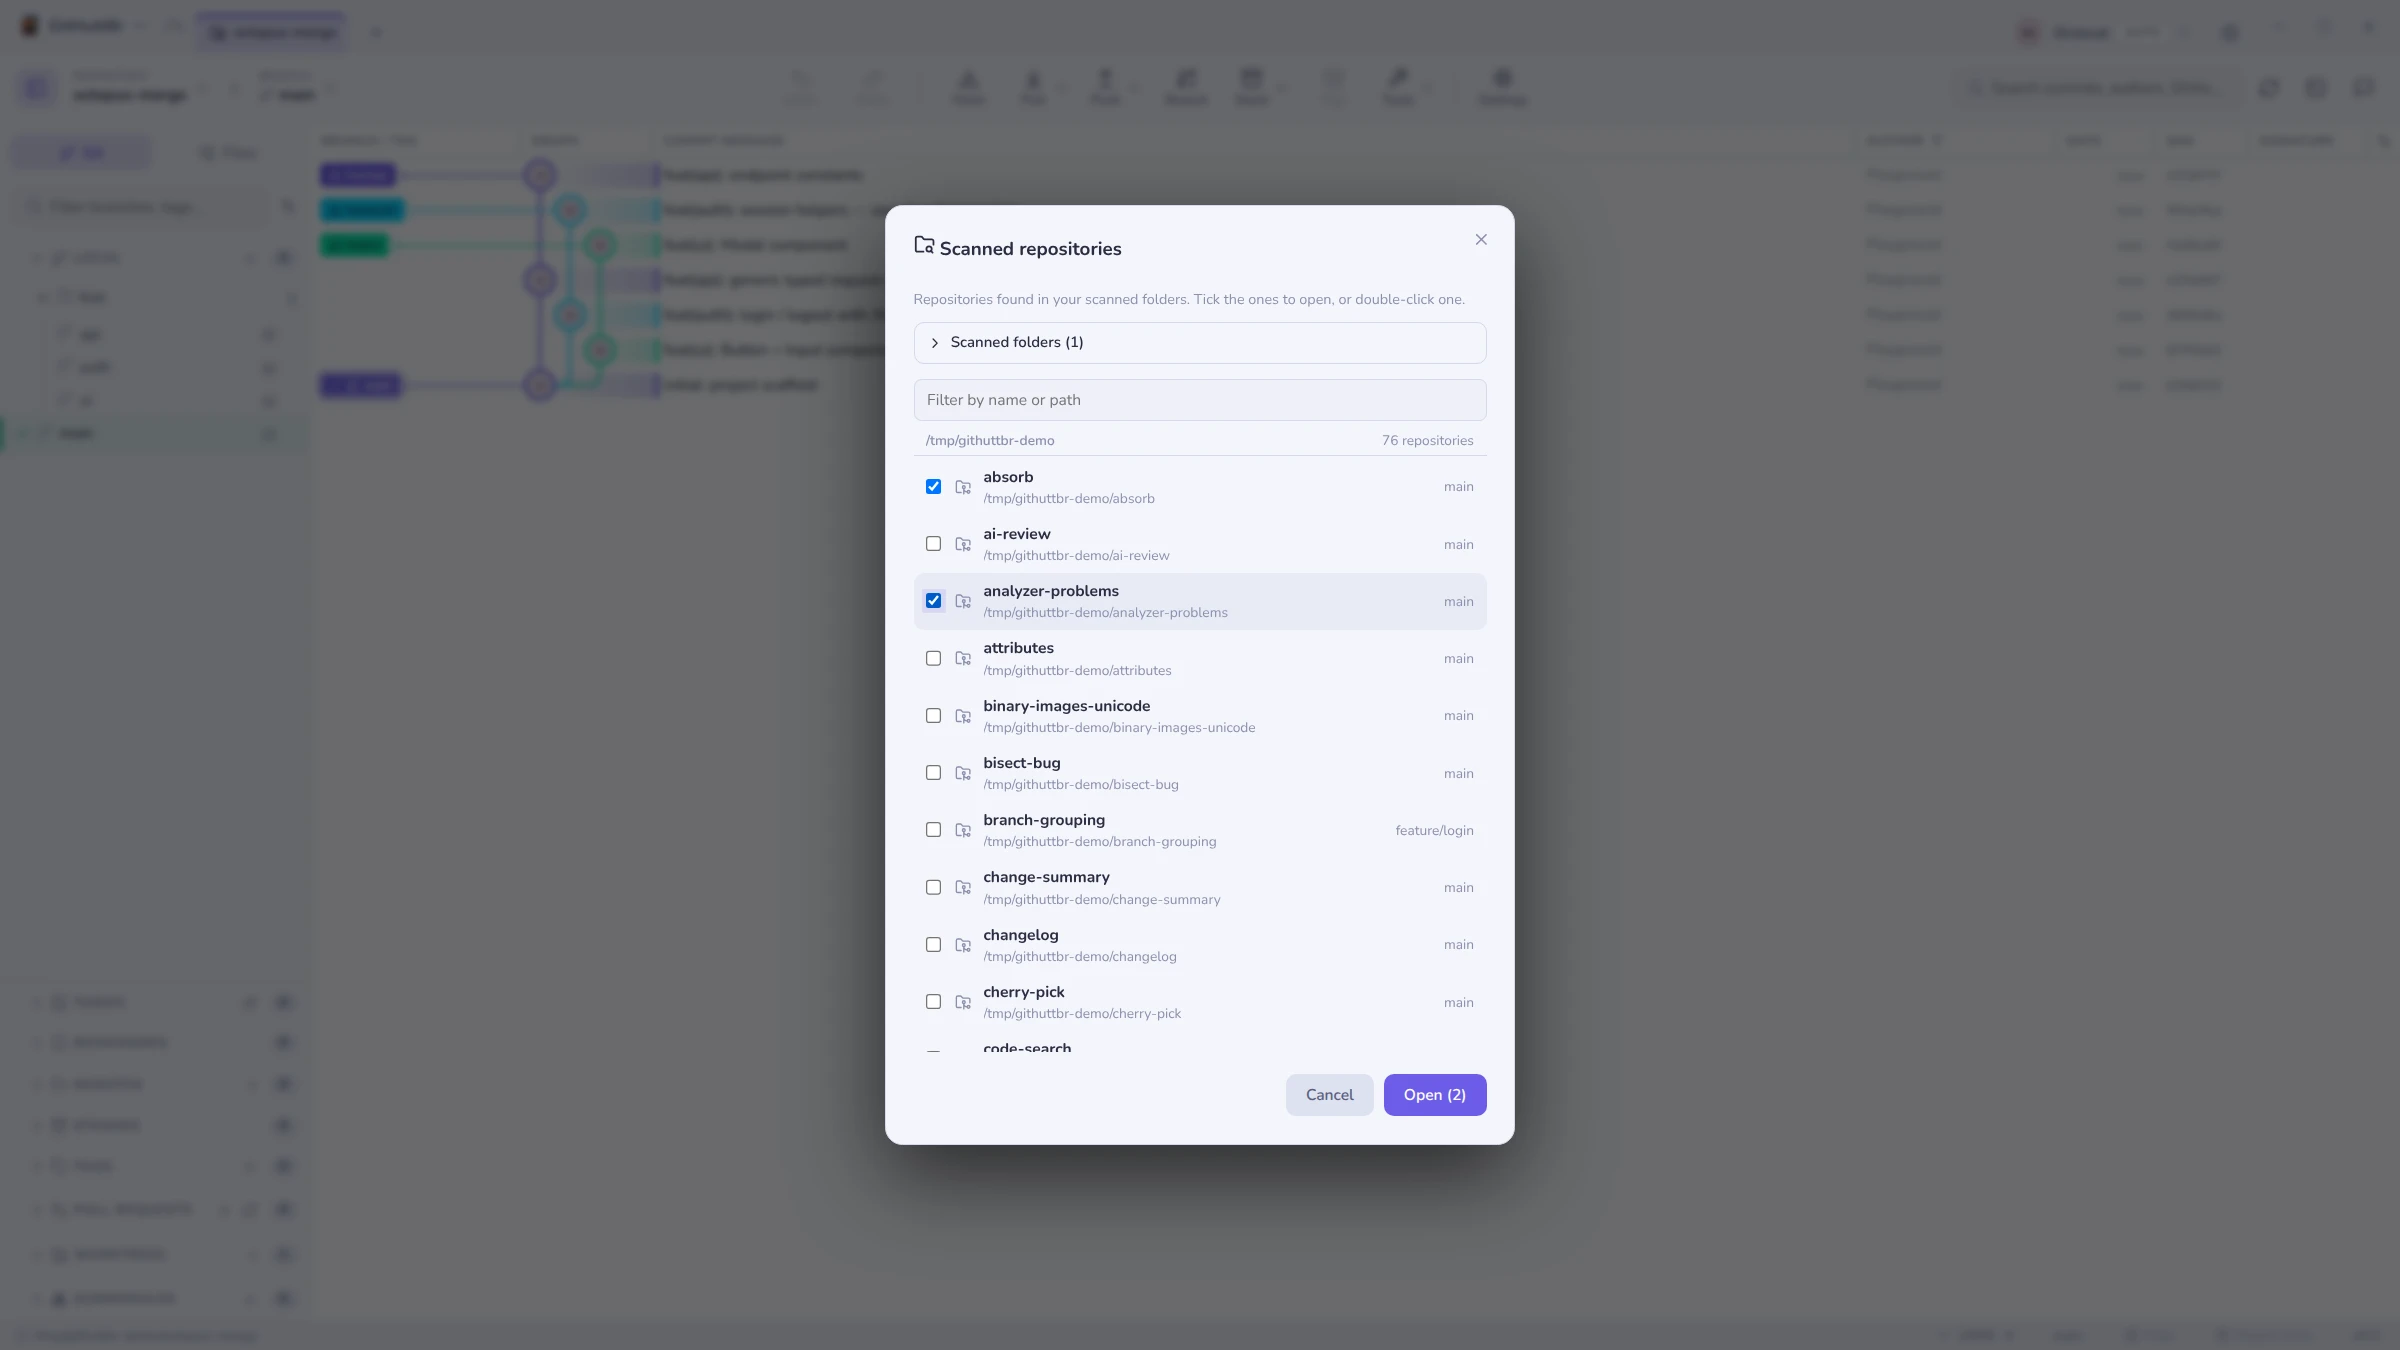
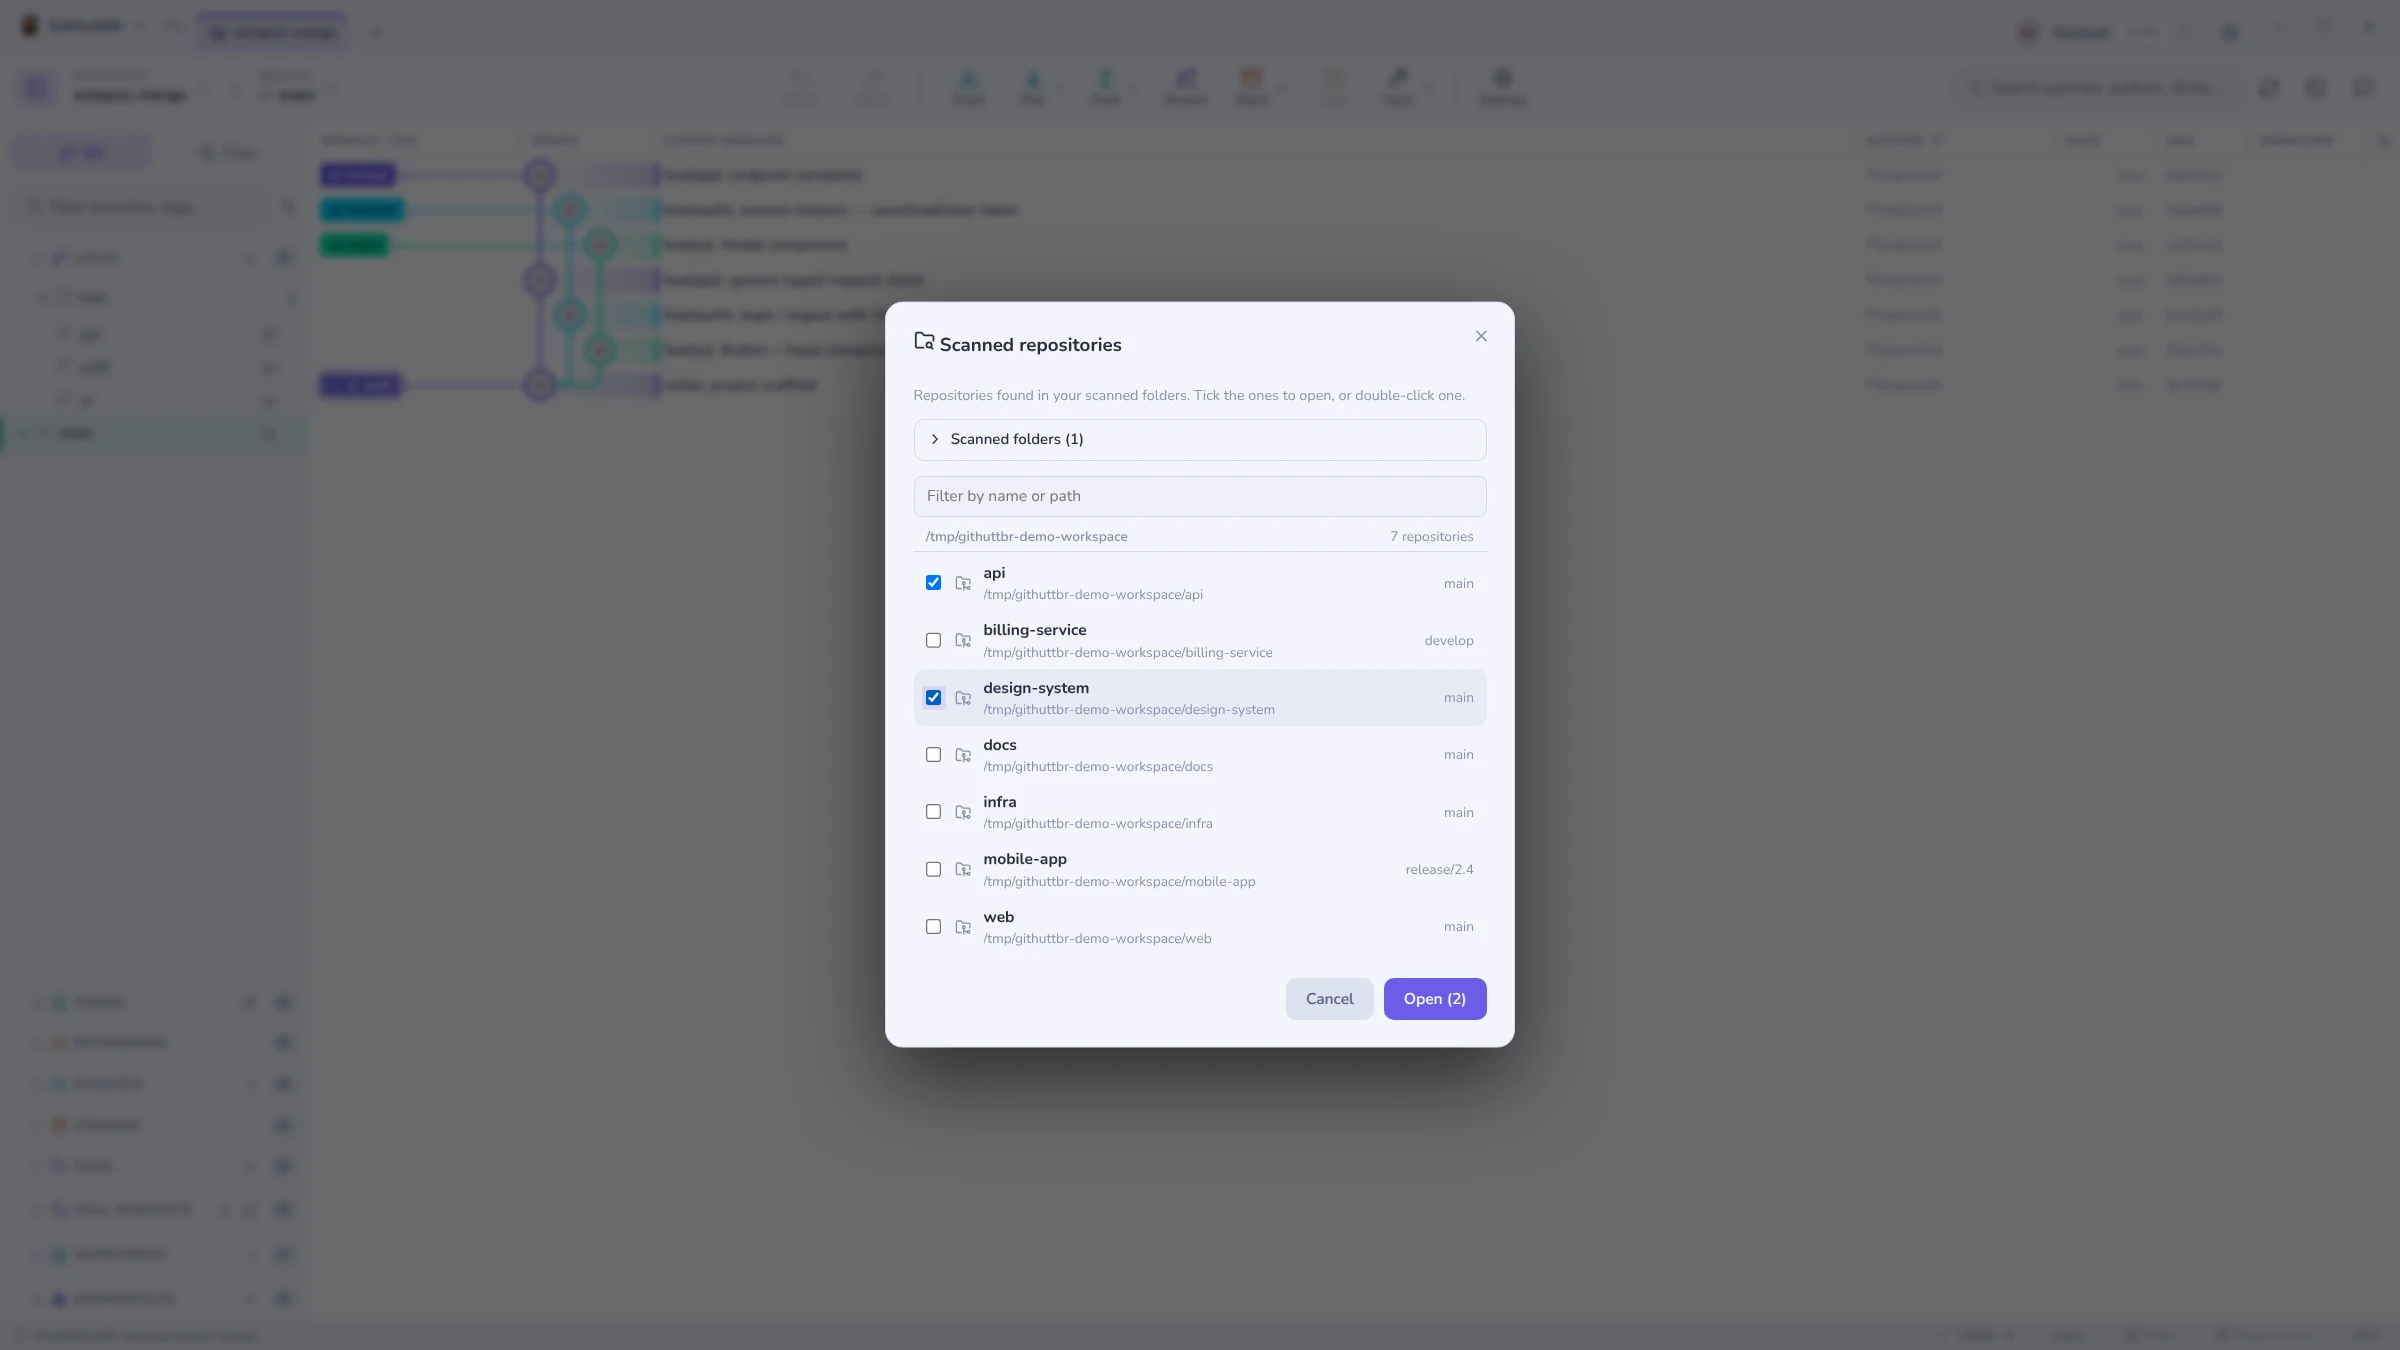
fix(repos): list repositories reached through a link under their scanned folder
A scan stores a linked repository by its real path, which can sit outside
the scanned folder. The Scanned repositories window grouped by path prefix,
so those repositories were indexed but never listed. Each entry now records
the folders whose scan found it (foundUnder), rebuilt on every scan so a
removed link drops out, and the grouping honours it.

The scanned-repos shot now scans a folder of real repositories: the demo
root is links into the playground, which would show the machine's paths.

Changed region(s): [[0.3438, 0.1244, 0.6562, 0.9022]]

diff --git a/test/repoRegistry.test.ts b/test/repoRegistry.test.ts
@@ -1,5 +1,5 @@
 import { describe, it, expect, beforeEach, afterAll } from 'vitest'
-import { rmSync, mkdtempSync, mkdirSync, writeFileSync, existsSync } from 'node:fs'
+import { rmSync, mkdtempSync, mkdirSync, writeFileSync, existsSync, symlinkSync, realpathSync } from 'node:fs'
 import { tmpdir } from 'node:os'
 import { join } from 'node:path'
 import {
@@ -130,6 +130,33 @@ describe('repoRegistry', () => {
     expect(entry?.source).toBe('scanned')
     expect(entry?.lastOpenedAt).toBe(0)
     expect(entry?.branch).toBe('develop')
+  })
+
+  it('records which folder found a repository, link or not, and forgets a removed link', async () => {
+    const elsewhere = mkdtempSync(join(tmpdir(), 'githuttbr-real-'))
+    const parent = mkdtempSync(join(tmpdir(), 'githuttbr-scanroot-'))
+    dirs.push(elsewhere, parent)
+    const real = join(elsewhere, 'linked')
+    mkdirSync(join(real, '.git'), { recursive: true })
+    writeFileSync(join(real, '.git', 'HEAD'), 'ref: refs/heads/main\n')
+    mkdirSync(join(parent, 'plain', '.git'), { recursive: true })
+    writeFileSync(join(parent, 'plain', '.git', 'HEAD'), 'ref: refs/heads/main\n')
+    symlinkSync(real, join(parent, 'link'))
+
+    await scanRoots([{ path: parent, depth: 1 }])
+    const byName = (name: string, repos: Awaited<ReturnType<typeof listRepos>>) =>
+      repos.find((r) => r.name === name)
+    let repos = await listRepos()
+    expect(byName('linked', repos)?.path).toBe(realpathSync(real))
+    expect(byName('linked', repos)?.foundUnder).toEqual([parent])
+    expect(byName('plain', repos)?.foundUnder).toEqual([parent])
+
+    // The link is gone: the repository stays indexed, but no longer under the folder.
+    rmSync(join(parent, 'link'))
+    await scanRoots([{ path: parent, depth: 1 }])
+    repos = await listRepos()
+    expect(byName('linked', repos)?.foundUnder).toBeUndefined()
+    expect(byName('plain', repos)?.foundUnder).toEqual([parent])
   })
 
   it('counts only what a scan added, not the registry it returns', async () => {

diff --git a/src/main/repoRegistry.ts b/src/main/repoRegistry.ts
@@ -170,6 +170,20 @@ export async function scanRoots(rootList: RepoScanRoot[]): Promise<RepoScanResul
     const found = new Set<string>()
     let added = 0
 
+    // Which folder found a repository is rebuilt for every folder scanned now:
+    // a link removed since the last scan must take its repository out of that
+    // folder's list. Folders not in this scan keep what they recorded.
+    const scanned = new Set(rootList.filter((r) => isPlausibleRepoPath(r.path)).map((r) => r.path))
+    for (const repo of repos) {
+      if (!repo.foundUnder) continue
+      const kept = repo.foundUnder.filter((p) => !scanned.has(p))
+      if (kept.length > 0) repo.foundUnder = kept
+      else delete repo.foundUnder
+    }
+    const noteFoundUnder = (repo: RegistryRepo, root: string): void => {
+      if (!repo.foundUnder?.includes(root)) repo.foundUnder = [...(repo.foundUnder ?? []), root]
+    }
+
     for (const root of rootList) {
       if (!isPlausibleRepoPath(root.path)) continue
       for (const repoPath of await scanForRepos(root.path, root.depth)) {
@@ -179,6 +193,7 @@ export async function scanRoots(rootList: RepoScanRoot[]): Promise<RepoScanResul
         const existing = byPath.get(repoPath)
         if (existing) {
           existing.missing = false
+          noteFoundUnder(existing, root.path)
           continue
         }
         const [branch, owner] = await Promise.all([readHeadBranch(repoPath), readOriginOwner(repoPath)])
@@ -189,7 +204,8 @@ export async function scanRoots(rootList: RepoScanRoot[]): Promise<RepoScanResul
           branch,
           source: 'scanned',
           lastOpenedAt: 0,
-          missing: false
+          missing: false,
+          foundUnder: [root.path]
         }
         repos.push(entry)
         byPath.set(repoPath, entry)

diff --git a/src/renderer/src/lib/scanRoots.ts b/src/renderer/src/lib/scanRoots.ts
@@ -45,6 +45,15 @@ export interface ScanRootGroup {
   repos: RegistryRepo[]
 }
 
+/** Whether `repo` belongs to the scanned folder `root`: below it on disk, or
+ *  found by a scan of it — a repository reached through a link in the folder
+ *  is stored by its real path, which need not be below the folder at all. */
+function belongsTo(root: string, repo: RegistryRepo): boolean {
+  if (isWithin(root, repo.path)) return true
+  const key = folderKey(root)
+  return repo.foundUnder?.some((f) => folderKey(f) === key) ?? false
+}
+
 /** The indexed repositories under each scanned folder, in the folders' order.
  *  A repository under two overlapping folders is listed once, under the deeper
  *  one — the folder that describes it best. Missing folders are left out: the
@@ -55,7 +64,7 @@ export function groupByScanRoot(roots: RepoScanRoot[], repos: RegistryRepo[]): S
     if (repo.missing) continue
     let best: ScanRootGroup | undefined
     for (const g of groups) {
-      if (!isWithin(g.root.path, repo.path)) continue
+      if (!belongsTo(g.root.path, repo)) continue
       if (!best || folderKey(g.root.path).length > folderKey(best.root.path).length) best = g
     }
     best?.repos.push(repo)

diff --git a/test/scanRoots.test.ts b/test/scanRoots.test.ts
@@ -85,4 +85,18 @@ describe('groupByScanRoot', () => {
     const groups = groupByScanRoot([{ path: '/w', depth: 3 }, { path: '/empty', depth: 3 }], [repo('/w/gone', true)])
     expect(groups.map((g) => g.repos.length)).toEqual([0, 0])
   })
+
+  it('lists a repository reached through a link under the folder that found it', () => {
+    // Stored by its real path, outside the folder: only the scan knows it belongs.
+    const linked = { ...repo('/elsewhere/real/api'), foundUnder: ['/w/links/'] }
+    const groups = groupByScanRoot(
+      [
+        { path: '/w/links', depth: 1 },
+        { path: '/w/other', depth: 1 }
+      ],
+      [linked, repo('/w/links/plain')]
+    )
+    expect(groups[0].repos.map((r) => r.name)).toEqual(['api', 'plain'])
+    expect(groups[1].repos).toEqual([])
+  })
 })

diff --git a/src/shared/types.ts b/src/shared/types.ts
@@ -3167,6 +3167,11 @@ export interface RegistryRepo {
   /** Folder absent at the last existence check. Stored rather than computed:
    *  stat-ing 200 paths belongs on page load, never in a render. */
   missing: boolean
+  /** The scan folders, as configured, whose last scan found this repository.
+   *  Not derivable from `path`: a repository reached through a link inside a
+   *  folder is stored by its real path, which can sit anywhere on disk.
+   *  Absent until a scan finds it. */
+  foundUnder?: string[]
 }
 
 /** A folder Gitcito scans for repositories. A preference, not an index. */
